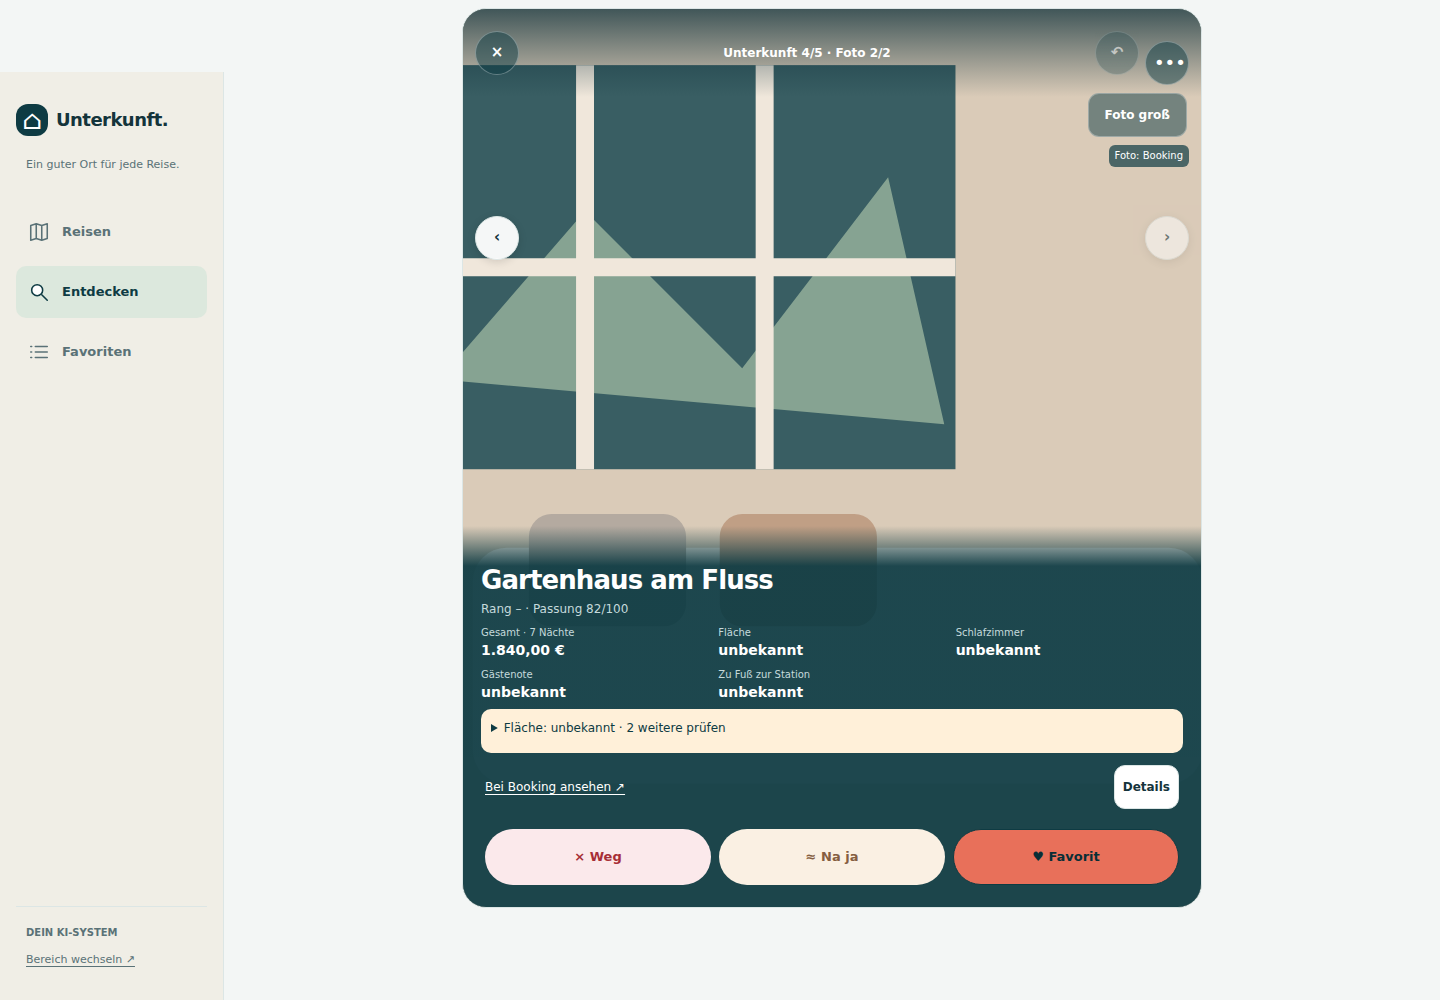
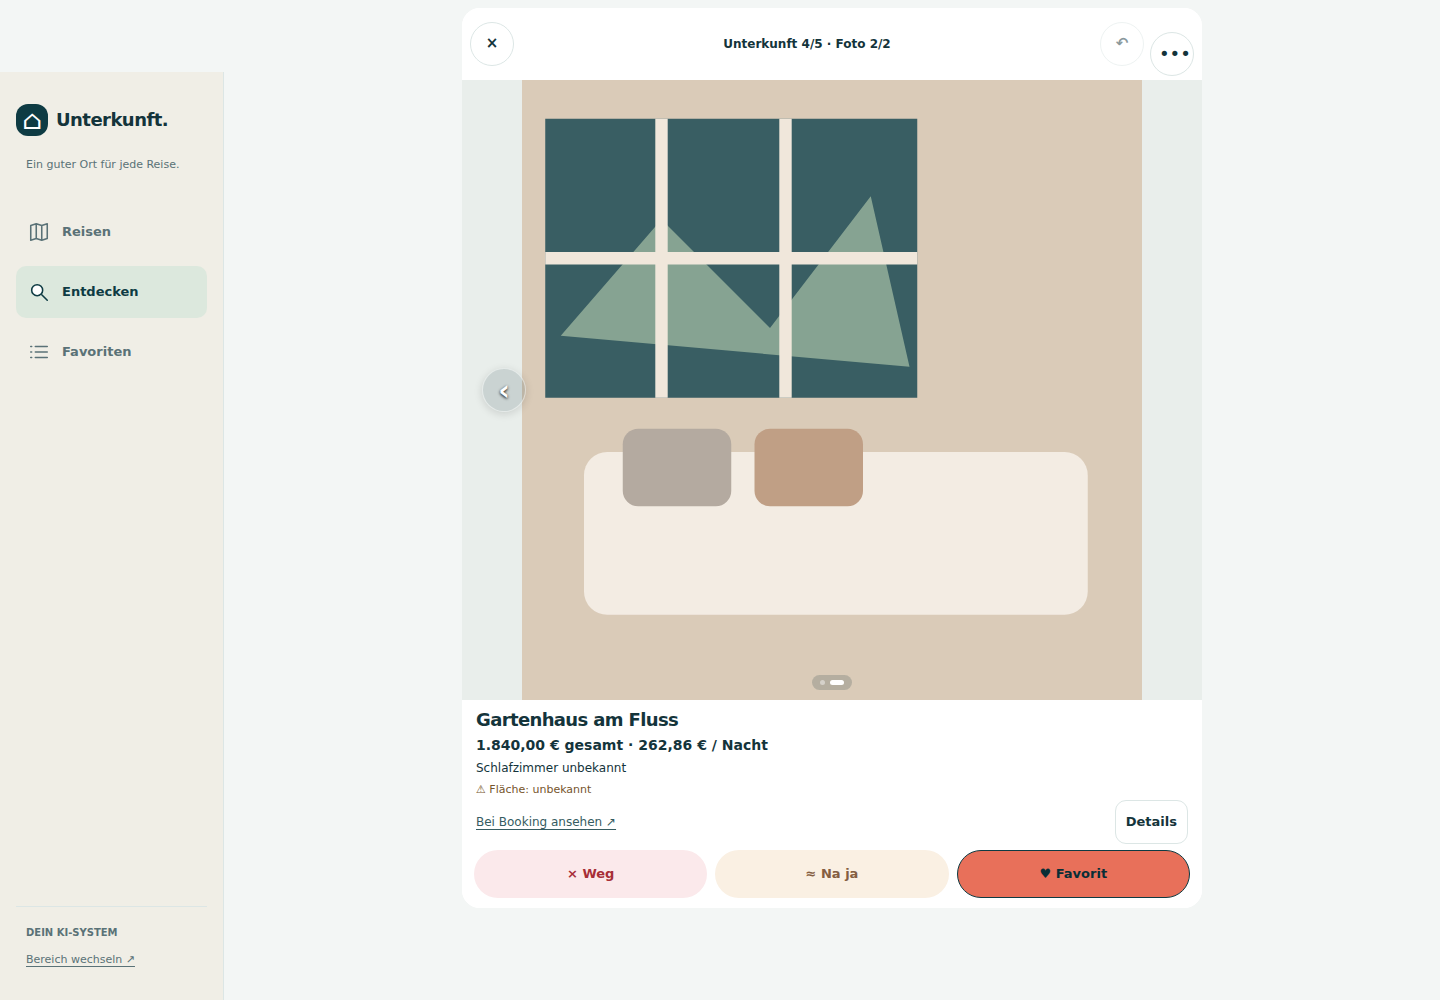
Put photos first in accommodation review (W91, v0.22.0)

diff --git a/stay-review.js b/stay-review.js
@@ -109,6 +109,7 @@ function stayReviewInfo(t,trip) {
 }
 function stayCardPhoto(card, gallery) {
   card.querySelector(':scope > .review-backdrop')?.remove();
+  if(card.classList.contains('photo-first'))return;
   const source=gallery.querySelector('img');
   if(!source)return;
   const image=el('img',{class:'review-backdrop',alt:'','aria-hidden':'true',referrerpolicy:'no-referrer',src:source.src,onerror:()=>image.remove()});
@@ -118,18 +119,20 @@ function stayGallery(t) {
   const urls=[...new Set([...(Array.isArray(t.bilder)?t.bilder:[]),t.bild].map(v=>sucheLink(v)).filter(Boolean))].slice(0,10);
   const box=el('section',{class:'stay-gallery'+(!urls.length?' gallery-empty':''),'aria-label':'Fotogalerie'});
   if(!urls.length) {box.append(sucheFoto(t));return box;}
-  let index=0,start=null;
+  let index=0,start=null;const preloaded=new Set();
+  const dots=el('div',{class:'gallery-dots','aria-hidden':'true'},...urls.map(()=>el('span')));
+  function preload(url){if(!url||preloaded.has(url))return;preloaded.add(url);const img=new Image();img.referrerPolicy='no-referrer';img.src=url;}
   const photo=el('div'), count=el('span',{'aria-live':'polite'});
   const prev=el('button',{type:'button','aria-label':'Vorheriges Foto',onclick:()=>show(index-1)},'‹');
   const next=el('button',{type:'button','aria-label':'Nächstes Foto',onclick:()=>show(index+1)},'›');
-  function show(i) {index=Math.max(0,Math.min(urls.length-1,i));photo.replaceChildren(sucheFoto({...t,bild:urls[index]}));count.textContent=`${index+1} / ${urls.length}`;box.dataset.photo=`Foto ${index+1}/${urls.length}`;box.onPhotoChange?.();prev.disabled=index===0;next.disabled=index===urls.length-1;const card=box.closest('.review-card');if(card)stayCardPhoto(card,box);const img=photo.querySelector('img');if(img)img.addEventListener('error',()=>{box.classList.add('gallery-empty');card?.querySelector(':scope > .review-backdrop')?.remove();});box.classList.remove('gallery-empty');}
-  photo.addEventListener('pointerdown',e=>{start={x:e.clientX,y:e.clientY};});
-  photo.addEventListener('pointerup',e=>{if(start && Math.abs(e.clientX-start.x)>50 && Math.abs(e.clientY-start.y)<50)show(index+(e.clientX<start.x?1:-1));start=null;});
+  function show(i) {index=Math.max(0,Math.min(urls.length-1,i));photo.replaceChildren(sucheFoto({...t,bild:urls[index]}));count.textContent=`${index+1} / ${urls.length}`;box.dataset.photo=`Foto ${index+1}/${urls.length}`;dots.querySelectorAll('span').forEach((d,n)=>d.classList.toggle('active',n===index));preload(urls[index+1]);box.onPhotoChange?.();prev.disabled=index===0;next.disabled=index===urls.length-1;const card=box.closest('.review-card');if(card)stayCardPhoto(card,box);const img=photo.querySelector('img');if(img)img.loading='eager';if(img)img.addEventListener('error',()=>{box.classList.add('gallery-empty');card?.querySelector(':scope > .review-backdrop')?.remove();});box.classList.remove('gallery-empty');}
+  photo.addEventListener('pointerdown',e=>{if(start||e.isPrimary===false||e.button!==0){start=null;return;}start={id:e.pointerId,x:e.clientX,y:e.clientY};try{photo.setPointerCapture(e.pointerId);}catch{}});
+  photo.addEventListener('pointerup',e=>{if(!start||start.id!==e.pointerId)return;const dx=e.clientX-start.x,dy=e.clientY-start.y;start=null;if(Math.abs(dx)>50&&Math.abs(dy)<50)show(index+(dx<0?1:-1));else if(Math.abs(dx)<12&&Math.abs(dy)<12){const rect=photo.getBoundingClientRect();show(index+(e.clientX<rect.left+rect.width/2?-1:1));}});
   photo.addEventListener('pointercancel',()=>{start=null;});
   const controls=el('div',{class:'actions gallery-controls'},urls.length>1?prev:null,count,urls.length>1?next:null);
   photo.tabIndex=0;photo.setAttribute('aria-label','Foto ansehen');photo.addEventListener('keydown',e=>{if(e.key==='ArrowLeft'||e.key==='ArrowRight'){e.preventDefault();show(index+(e.key==='ArrowRight'?1:-1));}});
   const large=el('button',{type:'button',class:'photo-large',onclick:()=>{const d=el('dialog',{class:'trip-dialog photo-dialog','aria-label':'Foto groß'});d.append(el('button',{onclick:()=>d.close()},'Schließen'),sucheFoto({...t,bild:urls[index]}));main.append(d);d.addEventListener('close',()=>{d.remove();large.focus();});d.showModal();}},'Foto groß');
-  box.append(photo,controls,large);show(0);return box;
+  box.append(photo,controls,dots,large);show(0);return box;
 }
 function stayEndrunde(hits,id,call,live,onSaved) {
   let order=hits.filter(t=>t.status==='favorit').sort((a,b)=>(a.eigener_rang??Infinity)-(b.eigener_rang??Infinity)||(a.bewertung?.rang??Infinity)-(b.bewertung?.rang??Infinity));
@@ -202,19 +205,24 @@ function stayReview({getSnapshot,getGroup=()=>null,getRows=()=>getSnapshot()?.tr
     if((needsRefresh||isBlocked())&&!pending&&onRefresh)box.append(el('button',{type:'button',class:'review-reload',onclick:onRefresh},'Aktualisieren'));
     const t=queue[0];if(!t){progress.textContent='Durchsehen abgeschlossen';box.append(header);box.append(el('h3',{},'Alle Unterkünfte durchgesehen.'),el('p',{},'In der Endrunde kannst du deine Favoriten vergleichen.'));return;}
     if(galleryId!==t.treffer_id){galleryId=t.treffer_id;gallery=stayGallery(t);}
-    const article=el('article',{class:'review-card','data-review-hit':t.treffer_id});
+    const article=el('article',{class:'review-card photo-first','data-review-hit':t.treffer_id});
+    menu.querySelector('.review-menu-panel').append(el('button',{type:'button',onclick:event=>{const trigger=event.currentTarget;gallery.querySelector('.photo-large')?.click();const dialog=main.querySelector('.photo-dialog');dialog?.addEventListener('close',()=>trigger.focus({preventScroll:true}),{once:true});}},'Foto groß'));
     gallery.onPhotoChange=()=>{progress.textContent=`Unterkunft ${Math.max(1,total-queue.length+1)}/${total} · ${gallery.dataset.photo||'Kein Foto'}`;};gallery.onPhotoChange();
-    const content=el('div',{class:'review-content',tabindex:0,'aria-label':'Unterkunft ansehen'},gallery,t.currentOfferUnavailable?el('p',{class:'warning'},'Für die aktuellen Tage nicht gefunden. Angaben und Preis sind nicht bestätigt.'):null,t.urteil_uebernommen?.hinweis?el('p',{class:'warning'},'Jetzt günstiger · '+t.urteil_uebernommen.hinweis):null);
-    const swipe=el('div',{class:'review-swipe'},refreshIsNew(t,snapshot.suchauftrag.id)?el('span',{class:'pill'},'NEU'):null,el('h3',{tabindex:-1},t.name),el('p',{class:'review-score'},`Rang ${t.bewertung?.rang??'–'} · ${snapshot.suchauftrag.status==='fertig'&&['A','B'].includes(sucheGruppe(t))?'Passung':'Vorläufige Passung'} ${t.bewertung?.score??'–'}/100`),stayReviewInfo(t,snapshot.suchauftrag));
+    const nextPhoto=sucheLink(queue[1]?.bilder?.[0]||queue[1]?.bild);if(nextPhoto&&gallery.dataset.nextPreloaded!==nextPhoto){const img=new Image();img.referrerPolicy='no-referrer';img.src=nextPhoto;gallery.dataset.nextPreloaded=nextPhoto;}
+    const content=el('div',{class:'review-content',tabindex:0,'aria-label':'Unterkunft ansehen'},gallery);
+    const price=t.currentOfferUnavailable?el('span',{},'Preis nicht bestätigt'):el('span',{},stayField(t,'preis',snapshot.suchauftrag),' gesamt · ',stayField(t,'nacht',snapshot.suchauftrag),' / Nacht');
+    const bedrooms=stayFieldValue(t,'schlafzimmer',snapshot.suchauftrag);
+    const swipe=el('div',{class:'review-swipe'},refreshIsNew(t,snapshot.suchauftrag.id)?el('span',{class:'pill'},'NEU'):null,el('h3',{tabindex:-1},t.name),el('p',{class:'review-price'},price),el('p',{class:'review-bedroom'},bedrooms===null?'Schlafzimmer unbekannt':bedrooms+' Schlafzimmer'));
     let point=null, swiped=false;
     swipe.addEventListener('pointerdown',e=>{if(point){point=null;return;}if(e.isPrimary===false || e.button!==0 || e.target.closest('button,a') || document.querySelector('dialog[open]'))return;point={id:e.pointerId,x:e.clientX,y:e.clientY};try{swipe.setPointerCapture?.(e.pointerId);}catch{/* Synthetic events may lack an active pointer. */}});
     swipe.addEventListener('pointercancel',()=>point=null);
     swipe.addEventListener('pointerup',e=>{if(!point||point.id!==e.pointerId)return;const dx=e.clientX-point.x,dy=e.clientY-point.y;point=null;if(Math.max(Math.abs(dx),Math.abs(dy))<70)return;if(Math.abs(dx)>Math.abs(dy)*1.3){swiped=true;void vote(t,dx>0?'favorit':'weg');}});
     swipe.addEventListener('click',e=>{if(swiped){e.preventDefault();e.stopPropagation();swiped=false;}},true);
-    const warnings=[...sucheWarnungen(t).map(w=>SUCHE_WARNUNGEN[w]||w),...['m2','schlafzimmer','gehzeit'].filter(k=>stayFieldValue(t,k,snapshot.suchauftrag)===null).map(k=>({m2:'Fläche: unbekannt',schlafzimmer:'Schlafzimmer: unbekannt',gehzeit:'Station: unbekannt'})[k])];if(warnings.length)swipe.append(el('details',{class:'warning'},el('summary',{},warnings[0]+(warnings.length>1?' · '+(warnings.length-1)+' weitere prüfen':'')),warnings.map(w=>el('p',{},w))));
+    const warnings=[...(t.currentOfferUnavailable?['Für aktuelle Tage nicht gefunden']:[]),...(t.urteil_uebernommen?.hinweis?['Jetzt günstiger · '+t.urteil_uebernommen.hinweis]:[]),...sucheWarnungen(t).map(w=>SUCHE_WARNUNGEN[w]||w),...['m2','schlafzimmer','gehzeit'].filter(k=>stayFieldValue(t,k,snapshot.suchauftrag)===null).map(k=>({m2:'Fläche: unbekannt',schlafzimmer:'Schlafzimmer: unbekannt',gehzeit:'Station: unbekannt'})[k])];
+    if(warnings.length)swipe.append(el('p',{class:'review-warning'},'⚠ '+warnings[0]));
     const provider=sucheAnbieterLink(t), url=provider?.url;
     content.append(swipe,el('div',{class:'review-links'},url?el('a',{href:url,target:'_blank',rel:'noopener noreferrer',onclick:()=>{awaitingReturn=t.treffer_id;}},provider.label):null,
-      el('button',{type:'button',onclick:event=>{const trigger=event.currentTarget,dialog=sucheKandidat(t,snapshot.suchauftrag.status==='fertig',snapshot.suchauftrag.id);scope.append(dialog);dialog.addEventListener('close',()=>{dialog.remove();if(trigger.isConnected)trigger.focus({preventScroll:true});});dialog.showModal();}},'Details')));
+      el('button',{type:'button',onclick:event=>{const trigger=event.currentTarget,dialog=sucheKandidat(t,snapshot.suchauftrag.status==='fertig',snapshot.suchauftrag.id);dialog.append(el('p',{class:'review-score'},`Passung ${t.bewertung?.score??'–'}/100`),stayReviewInfo(t,snapshot.suchauftrag),el('section',{'aria-label':'Offene Angaben'},warnings.map(w=>el('p',{},w))));scope.append(dialog);dialog.addEventListener('close',()=>{dialog.remove();if(trigger.isConnected)trigger.focus({preventScroll:true});});dialog.showModal();}},'Details')));
     if(awaitingReturn===t.treffer_id)content.append(el('p',{role:'status'},'Und? Wie gefällt dir die Unterkunft?'));
     article.append(header,content,buttons(t));stayCardPhoto(article,gallery);box.append(article);
 

diff --git a/style.css b/style.css
@@ -1023,3 +1023,30 @@ body:has(.tinder-mode) main.view{padding:8px 10px;}
 .stay-photo-strip figure{position:relative}
 .stay-photo-strip figure>.photo-remove:last-child{position:absolute;top:4px;right:4px;width:44px;height:44px;min-height:44px;padding:0;border-radius:50%;background:#0e3b43e8;color:white;border:1px solid #ffffff99;font-size:24px;line-height:1}
 .stay-photos .actions button:last-child{background:transparent;border-color:transparent;text-decoration:underline;font-weight:400}
+
+/* W91: real photo surface, no backdrop and no information covering the image. */
+.photo-first.review-card{padding:0;background:#fff;color:#14343b;border:0;border-radius:18px;isolation:auto}
+.photo-first .review-overlay-header{position:relative;inset:auto;flex:0 0 52px;padding:4px 8px;background:#fff;color:#14343b;z-index:5}
+.photo-first .review-overlay-header button,.photo-first .review-menu>summary{background:transparent;color:#14343b;border-color:#dce6e5}
+.photo-first .review-content{padding:0!important;display:flex;flex-direction:column;justify-content:flex-start;overflow:auto;min-height:0}
+.photo-first .review-content>.stay-gallery{position:relative;inset:auto;flex:1 0 200px;height:auto!important;min-height:200px;width:100%;overflow:hidden}
+.photo-first .stay-gallery>div:first-child{height:100%!important;position:absolute;inset:0;touch-action:pan-y}
+.photo-first .stay-photo,.photo-first .stay-photo img{height:100%!important;width:100%;margin:0;border-radius:0;object-fit:cover;opacity:1!important;filter:none}
+.photo-first .stay-photo figcaption,.photo-first .photo-large{display:none}
+.photo-first .gallery-controls{position:absolute;inset:50% 8px auto;transform:translateY(-50%);display:flex;justify-content:space-between;pointer-events:none;margin:0;background:transparent}
+.photo-first .gallery-controls button{pointer-events:auto;width:44px;height:44px;min-height:44px;border:1px solid #ffffff80;background:#14343b25;color:#fff;text-shadow:0 1px 3px #000;font-size:28px;padding:0;border-radius:50%}
+.photo-first .gallery-controls button:disabled{visibility:hidden}
+.photo-first .gallery-dots{position:absolute;bottom:10px;left:50%;transform:translateX(-50%);display:flex;gap:5px;padding:5px 8px;border-radius:12px;background:#14343b30;pointer-events:none}
+.gallery-dots span{width:5px;height:5px;border-radius:50%;background:#ffffff70}.gallery-dots span.active{background:#fff;width:14px;border-radius:3px}
+.photo-first .review-swipe{flex:0 0 auto;margin:0;padding:9px 14px 2px!important;background:#fff!important;color:#14343b;z-index:auto}
+.photo-first .review-swipe h3{color:#14343b;font-size:18px;line-height:1.2;margin:0 0 4px;overflow-wrap:anywhere}
+.photo-first .review-price{font-size:14px;font-weight:700;margin:0 0 3px}.photo-first .review-bedroom{font-size:12px;margin:0}
+.photo-first .review-warning{font-size:11px;color:#76552c;margin:3px 0 0;white-space:nowrap;overflow:hidden;text-overflow:ellipsis}
+.photo-first .review-links{flex:0 0 auto;display:flex;align-items:center;justify-content:space-between;padding:0 14px!important;background:#fff!important;z-index:auto}
+.photo-first .review-links a{color:#365c61;font-size:12px}.photo-first .review-links button{min-height:44px;padding:6px 10px;font-size:13px}
+.photo-first .review-actions{flex:0 0 auto;padding:6px 12px 10px!important;gap:8px;background:#fff!important;z-index:auto}
+.photo-first .review-actions button{min-height:48px}
+.photo-first .review-content>p[role=status]{font-size:12px;margin:2px 14px}
+.photo-first .review-menu-panel{top:52px}
+.photo-first:has(.gallery-empty) .review-content{padding-top:0!important}
+@media(min-width:800px){.photo-first .review-content>.stay-gallery{flex-basis:240px}.photo-first .stay-photo img{object-fit:contain;background:#e9eeeb}}

diff --git a/index.html b/index.html
@@ -14,22 +14,22 @@
 <link rel="icon" href="icon.svg" type="image/svg+xml">
 <link rel="apple-touch-icon" href="icon-180.png">
 <link rel="stylesheet" href="vendor/leaflet-1.9.4/leaflet.css">
-<link rel="stylesheet" href="style.css?v=0.21.1">
+<link rel="stylesheet" href="style.css?v=0.22.0">
 <script src="https://cdnjs.cloudflare.com/ajax/libs/marked/15.0.7/marked.min.js" defer></script>
 <script src="vendor/leaflet-1.9.4/leaflet.js" defer></script>
-<script src="stay-tools.js?v=0.21.1" defer></script>
-<script src="stay-research.js?v=0.21.1" defer></script>
-<script src="stay-form.js?v=0.21.1" defer></script>
-<script src="stay-details.js?v=0.21.1" defer></script>
-<script src="stay-districts.js?v=0.21.1" defer></script>
-<script src="stay-review.js?v=0.21.1" defer></script>
-<script src="stay-photos.js?v=0.21.1" defer></script>
-<script src="stay-trips.js?v=0.21.1" defer></script>
-<script src="stay-compare.js?v=0.21.1" defer></script>
-<script src="stay-refresh.js?v=0.21.1" defer></script>
-<script src="stay-workplace.js?v=0.21.1" defer></script>
-<script src="stay-notifications.js?v=0.21.1" defer></script>
-<script src="app.js?v=0.21.1" defer></script>
+<script src="stay-tools.js?v=0.22.0" defer></script>
+<script src="stay-research.js?v=0.22.0" defer></script>
+<script src="stay-form.js?v=0.22.0" defer></script>
+<script src="stay-details.js?v=0.22.0" defer></script>
+<script src="stay-districts.js?v=0.22.0" defer></script>
+<script src="stay-review.js?v=0.22.0" defer></script>
+<script src="stay-photos.js?v=0.22.0" defer></script>
+<script src="stay-trips.js?v=0.22.0" defer></script>
+<script src="stay-compare.js?v=0.22.0" defer></script>
+<script src="stay-refresh.js?v=0.22.0" defer></script>
+<script src="stay-workplace.js?v=0.22.0" defer></script>
+<script src="stay-notifications.js?v=0.22.0" defer></script>
+<script src="app.js?v=0.22.0" defer></script>
 </head>
 <body>
 

diff --git a/sw.js b/sw.js
@@ -1,7 +1,7 @@
 // Service Worker: hält nur die App-Hülle vor (Dateien dieser Seite). Daten kommen immer live von app-api.
 const CACHE_PREFIX = 'ki-system:' + self.registration.scope + ':';
-const CACHE = CACHE_PREFIX + 'v34';
-const HUELLE = ['./', './index.html', './stay-compare.js?v=0.21.1', './stay-refresh.js?v=0.21.1', './stay-workplace.js?v=0.21.1', './stay-notifications.js?v=0.21.1', './stay-photos.js?v=0.21.1', './stay-trips.js?v=0.21.1', './stay-review.js?v=0.21.1', './app.js?v=0.21.1', './stay-tools.js?v=0.21.1', './stay-research.js?v=0.21.1', './stay-form.js?v=0.21.1', './stay-details.js?v=0.21.1', './stay-districts.js?v=0.21.1', './vendor/leaflet-1.9.4/leaflet.js', './vendor/leaflet-1.9.4/leaflet.css', './style.css?v=0.21.1', './manifest.webmanifest', './icon.svg', './icon-180.png', './icon-512.png'];
+const CACHE = CACHE_PREFIX + 'v35';
+const HUELLE = ['./', './index.html', './stay-compare.js?v=0.22.0', './stay-refresh.js?v=0.22.0', './stay-workplace.js?v=0.22.0', './stay-notifications.js?v=0.22.0', './stay-photos.js?v=0.22.0', './stay-trips.js?v=0.22.0', './stay-review.js?v=0.22.0', './app.js?v=0.22.0', './stay-tools.js?v=0.22.0', './stay-research.js?v=0.22.0', './stay-form.js?v=0.22.0', './stay-details.js?v=0.22.0', './stay-districts.js?v=0.22.0', './vendor/leaflet-1.9.4/leaflet.js', './vendor/leaflet-1.9.4/leaflet.css', './style.css?v=0.22.0', './manifest.webmanifest', './icon.svg', './icon-180.png', './icon-512.png'];
 const HUELLE_URLS = new Set(HUELLE.map(path => new URL(path, self.registration.scope).href));
 
 self.addEventListener('install', (e) => {

diff --git a/app.js b/app.js
@@ -3,7 +3,7 @@
    Schreibende Aktionen laufen nur nach einem Klick von Sebastian. */
 'use strict';
 
-const APP_VERSION = '0.21.1';
+const APP_VERSION = '0.22.0';
 const API = 'https://sdgzwxiqcijxfpcjpydw.supabase.co/functions/v1/app-api';
 const TOKEN_KEY = 'ks_token';
 

diff --git a/docs/W91-ABNAHME.md b/docs/W91-ABNAHME.md
@@ -1,0 +1,13 @@
+# W91 · Foto zuerst
+
+App 0.22.0 / Cache v35. Nicht veröffentlicht.
+
+Das Foto ist eine eigene Fläche ohne dunkle Bildkopie oder Textüberdeckung. Kopfzeile, Name, Gesamtpreis/Preis pro Nacht, Schlafzimmer, eine Warnung, Details/Anbieterlink und Urteilsknöpfe stehen außerhalb. Nur transparente Fotopfeile und kleine Punkte liegen auf dem Bild. Vollständige Angaben und Warnungen unter Details; unbeschnittenes Foto über Menü → Foto groß.
+
+Galerie mit maximal zehn HTTPS-Fotos: Tippen links/rechts, horizontales Wischen und Tastaturpfeile; kein Urteil durch Fotogesten. Nächstes Foto und erste Aufnahme der nächsten Unterkunft werden vorgeladen (ohne Referrer). Kein persistenter Fotocache. Fehlende Bilder erhalten den bestehenden Platzhalter.
+
+Abnahme: Layout bei 390×844, 375×667 und 1440×1000; Bild vollständig deckend ohne Filter, kein Text über dem Bild, Entscheidungen oberhalb der Navigation. Foto-Tippen und Wischen ändern kein Urteil. Gesamter Favoriten-/Vergleich-/Buchungsablauf bleibt in der Browsertestsuite. Kein angemeldeter Live-Durchlauf und kein physisches iPhone behauptet.
+
+Screenshot w91-foto-mobile.png zeigt die tatsächliche neue App mit einem öffentlichen Beispielfoto; Name/Preis/Zimmer sind synthetische Testwerte, kein buchbares Angebot. Fotoreferenz: Dash Living Gojo, https://www.dash.co/en/japan/kyoto/dash-living-gojo ; Bild https://s.dash.co/2024/11/14/14133250/0_KYOTO_DASH_402_11-1024x683.jpg . Das Foto wird nicht als App-Asset eingebaut.
+
+Weitere Punkte392 (Suchstartseite, W90-Währungsanzeige, kompakte Reisezeilen) sind nicht Teil dieses Foto-PRs.
